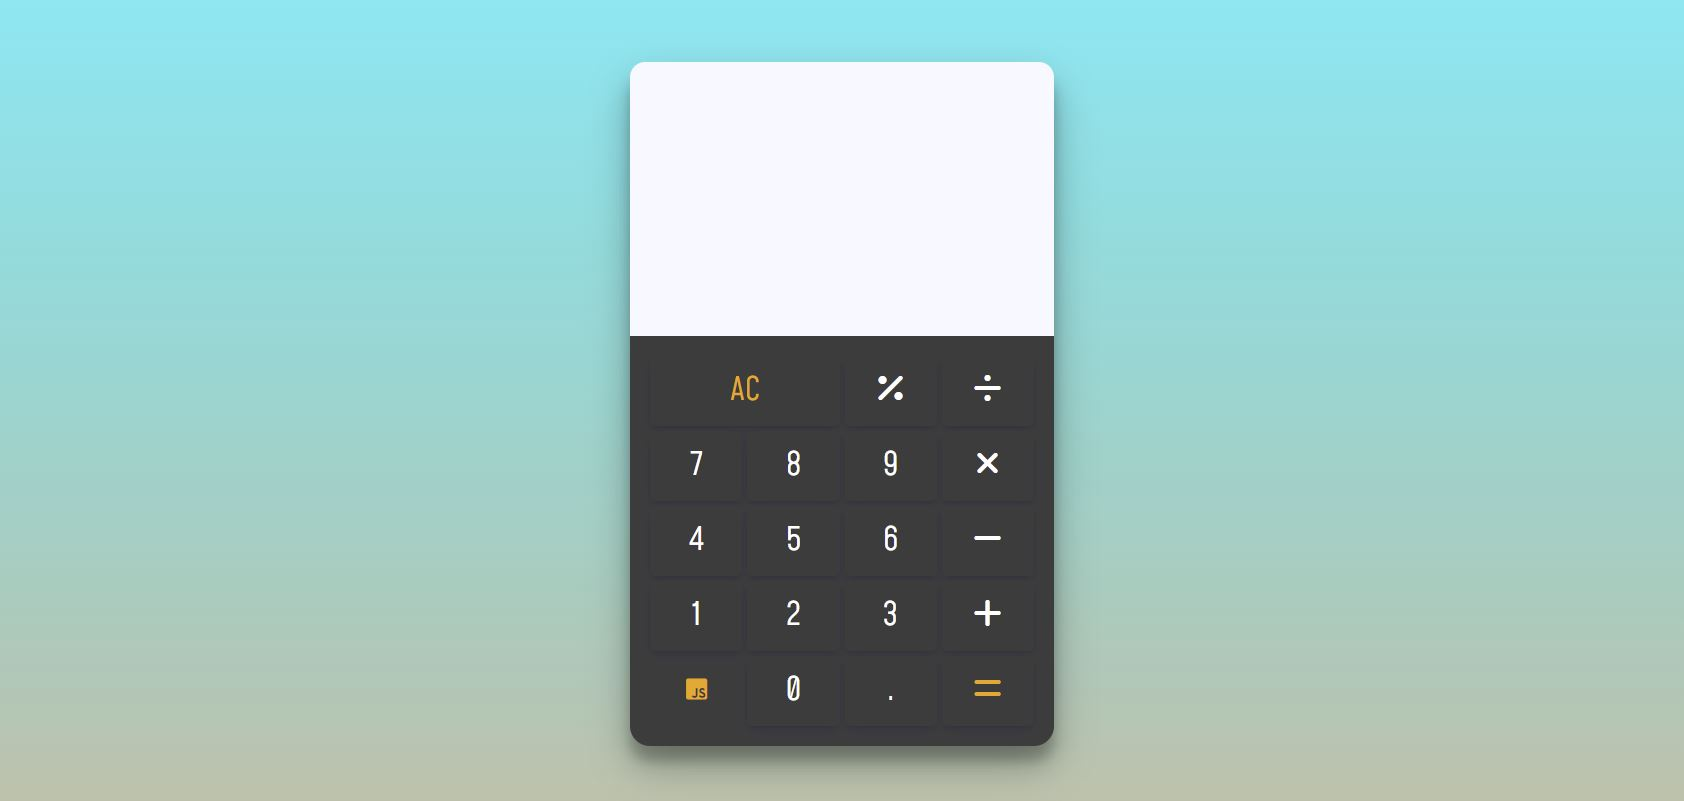
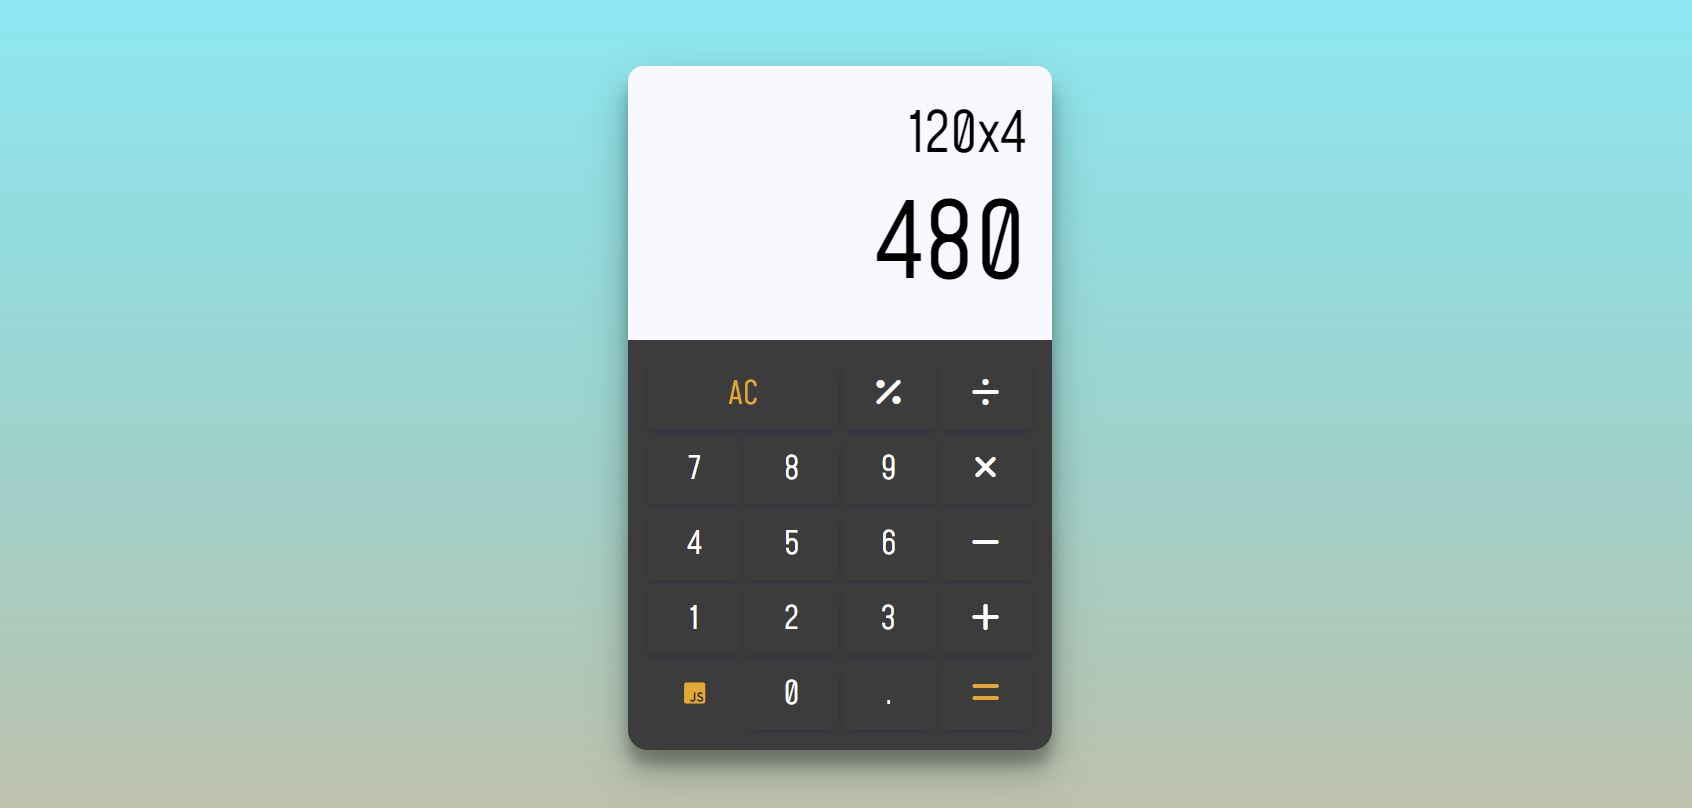
changed screenshot for readme to include an equation. Also added code to display full equation on the calculator so user can see this

diff --git a/main.js b/main.js
@@ -42,9 +42,10 @@ operatorBtns.forEach((button) => {
       console.error('You must type in a number');
     } else {
       firstNumber = parseFloat(currentScreenOutput.innerHTML);
-      previousScreenOutput.innerHTML = firstNumber;
-      currentScreenOutput.innerHTML = '';
       operator = button.value;
+      previousScreenOutput.innerHTML = firstNumber + operator;
+      currentScreenOutput.innerHTML = '';
+      // operator = button.value;
     }
   });
 });
@@ -67,6 +68,7 @@ const calculateResult = () => {
 // Function for equals button click event listener to call on, which assigns the second number to a variable, stores the result of equation into a variable and updates display to show the answer to equation. This is done by calling the calculateResult function
 const finalOutput = () => {
   secondNumber = parseFloat(currentScreenOutput.innerHTML);
+  previousScreenOutput.innerHTML = firstNumber + operator + secondNumber;
   result = calculateResult();
   if (result % 1 != 0) {
     currentScreenOutput.innerHTML = result.toFixed(4);
